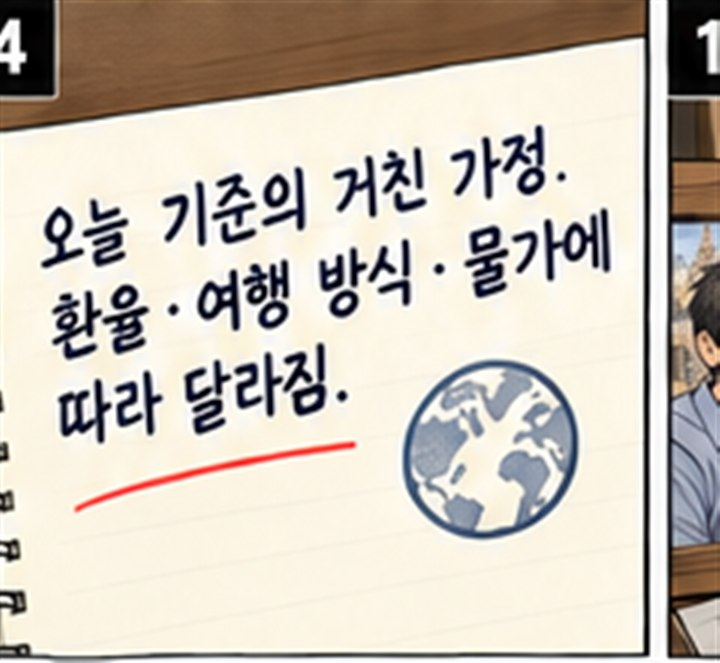
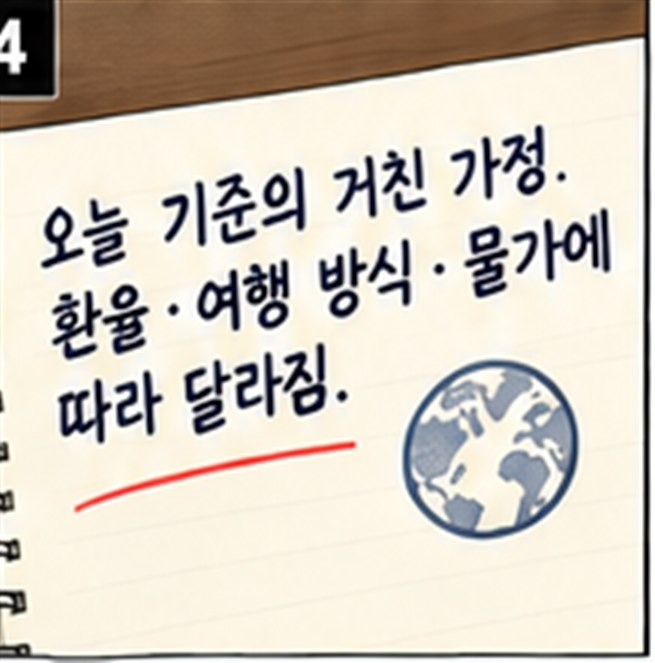
Remove neighbor-panel slivers from episode 2 panels
Panels 13, 14 and 19 had part of the next panel at their right edge,
and panel 20 had part of panel 19 at its left edge. Trim them at the
white gutter. Panel 20's caption box crosses the gutter, so keep it and
whiten only the stray strip above it.

Add tests for image headers/resolution, the trimmed sizes, and the
full-width, aspect-preserving reader CSS.

diff --git a/tests/site.test.js b/tests/site.test.js
@@ -119,3 +119,68 @@ test("HTML이 참조하는 로컬 파일이 모두 존재하고 외부 스크립
     .map((f) => fs.readFileSync(path.join(ROOT, f), "utf8")).join("\n");
   assert.doesNotMatch(sources, /googletagmanager|google-analytics|gtag\(|adsbygoogle|fbq\(|analytics/i);
 });
+
+// JPEG(SOFn)·WebP(VP8/VP8L/VP8X) 헤더에서 가로·세로 크기를 읽는다 (외부 라이브러리 없이)
+function imageSize(file) {
+  const b = fs.readFileSync(file);
+  if (b[0] === 0xff && b[1] === 0xd8) {
+    let i = 2;
+    while (i < b.length) {
+      if (b[i] !== 0xff) { i++; continue; }
+      const marker = b[i + 1];
+      const len = b.readUInt16BE(i + 2);
+      if (marker >= 0xc0 && marker <= 0xcf && ![0xc4, 0xc8, 0xcc].includes(marker)) {
+        return { type: "jpeg", height: b.readUInt16BE(i + 5), width: b.readUInt16BE(i + 7) };
+      }
+      i += 2 + len;
+    }
+    return null;
+  }
+  if (b.toString("ascii", 0, 4) === "RIFF" && b.toString("ascii", 8, 12) === "WEBP") {
+    const chunk = b.toString("ascii", 12, 16);
+    if (chunk === "VP8X") return { type: "webp", width: 1 + b.readUIntLE(24, 3), height: 1 + b.readUIntLE(27, 3) };
+    if (chunk === "VP8 ") return { type: "webp", width: b.readUInt16LE(26) & 0x3fff, height: b.readUInt16LE(28) & 0x3fff };
+    if (chunk === "VP8L") {
+      const v = b.readUInt32LE(21);
+      return { type: "webp", width: (v & 0x3fff) + 1, height: ((v >> 14) & 0x3fff) + 1 };
+    }
+  }
+  return null;
+}
+
+test("등록된 원고 이미지는 실제 이미지이며 모바일에서 선명하게 볼 만한 해상도다", () => {
+  for (const ep of episodes) {
+    for (const src of ep.images) {
+      const size = imageSize(path.join(ROOT, src));
+      assert.ok(size, `이미지 헤더를 읽을 수 없음: ${src}`);
+      // 375px 화면(2배율)에서 크게 흐려지지 않도록 가로 640px 이상
+      assert.ok(size.width >= 640, `${src}: 가로 ${size.width}px`);
+      // 컷 단위로 나눈 이미지인지 확인 (지나치게 긴 통짜 이미지 방지)
+      assert.ok(size.height / size.width <= 2, `${src}: 세로로 너무 긴 이미지 ${size.width}x${size.height}`);
+    }
+  }
+});
+
+test("EP.002 13·14·19·20번 컷에서 옆 컷 조각을 잘라냈다", () => {
+  // 원래 720px 폭 이미지의 가장자리에 이웃 컷 일부가 섞여 있었음 (거터 위치에서 잘라냄)
+  const expected = { 13: [662, 600], 14: [655, 663], 19: [661, 920], 20: [714, 924] };
+  for (const [no, [w, h]] of Object.entries(expected)) {
+    const size = imageSize(path.join(ROOT, `episodes/002/${no}.jpg`));
+    assert.deepEqual([size.width, size.height], [w, h], `episodes/002/${no}.jpg`);
+  }
+});
+
+test("읽기 화면은 원고를 화면 너비에 맞추고 원본 비율을 유지한다", () => {
+  const css = fs.readFileSync(path.join(ROOT, "assets/css/style.css"), "utf8");
+  const viewer = css.match(/\.viewer\{([^}]*)\}/);
+  const img = css.match(/\.viewer img\{([^}]*)\}/);
+  assert.ok(viewer && img, ".viewer 스타일이 있어야 함");
+  assert.match(viewer[1], /width:100%/);
+  assert.match(viewer[1], /max-width:var\(--reader\)/);
+  assert.match(img[1], /width:100%/);
+  assert.match(img[1], /height:auto/);
+  // 고정 높이·object-fit으로 컷을 자르거나 늘리지 않는다
+  assert.doesNotMatch(img[1], /object-fit|(?:^|;)height:\d/);
+  const html = fs.readFileSync(path.join(ROOT, "episode.html"), "utf8");
+  assert.match(html, /<meta name="viewport" content="width=device-width, initial-scale=1">/);
+});
